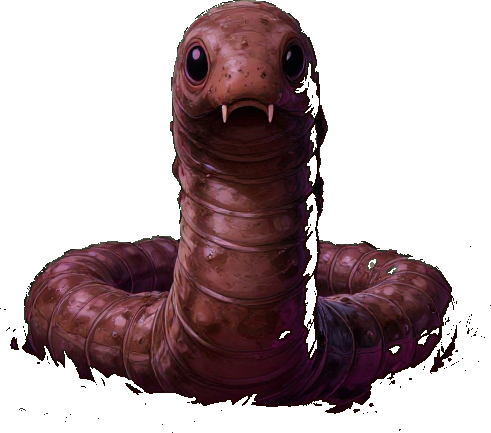
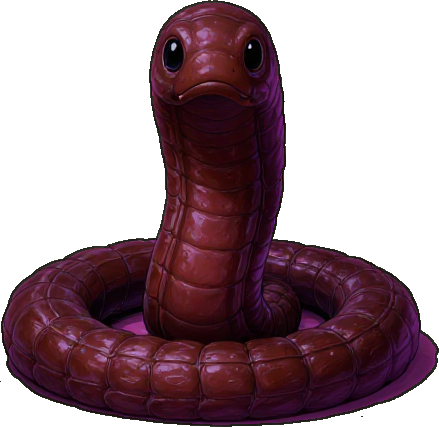
fix: アシッド・ワーム画像を更新（--min-island-area オプション追加でハイライトの穴を解消）

diff --git a/scripts/chromakey_magenta.py b/scripts/chromakey_magenta.py
@@ -313,8 +313,8 @@ class MagentaChromaKeyer:
         print(f"  Cropped Size: {result_img.size} (aspect ratio: {result_img.size[0]/result_img.size[1]:.3f})")
         return result_img.size
 
-def process_image(src_path, dest_path=None, tolerance=48.0, defringe_width=2, crop_bottom=True):
-    keyer = MagentaChromaKeyer(tolerance=tolerance, defringe_width=defringe_width)
+def process_image(src_path, dest_path=None, tolerance=48.0, defringe_width=2, crop_bottom=True, min_island_area=12):
+    keyer = MagentaChromaKeyer(tolerance=tolerance, defringe_width=defringe_width, min_island_area=min_island_area)
     return keyer.process(src_path, dest_path=dest_path, crop_bottom=crop_bottom)
 
 def main():
@@ -323,6 +323,7 @@ def main():
     parser.add_argument("-o", "--output", help="Path to output PNG (default: overwrite input)")
     parser.add_argument("-t", "--tolerance", type=float, default=48.0, help="Color distance tolerance (default: 48.0)")
     parser.add_argument("--defringe-width", type=int, default=2, help="Defringe width in pixels (default: 2)")
+    parser.add_argument("--min-island-area", type=int, default=12, help="Min pixel area of enclosed background islands to make transparent (default: 12). Raise for glossy bodies whose pink highlights get punched out")
     parser.add_argument("--no-crop", action="store_true", help="Do not crop transparent bounding box")
 
     args = parser.parse_args()
@@ -331,7 +332,8 @@ def main():
         dest_path=args.output,
         tolerance=args.tolerance,
         defringe_width=args.defringe_width,
-        crop_bottom=not args.no_crop
+        crop_bottom=not args.no_crop,
+        min_island_area=args.min_island_area
     )
 
 if __name__ == "__main__":
